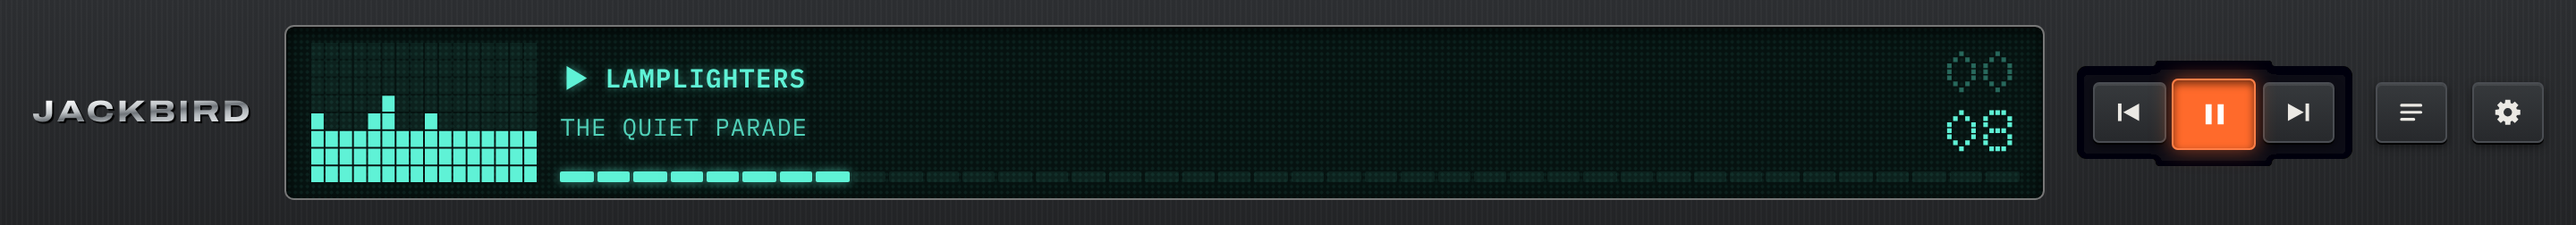
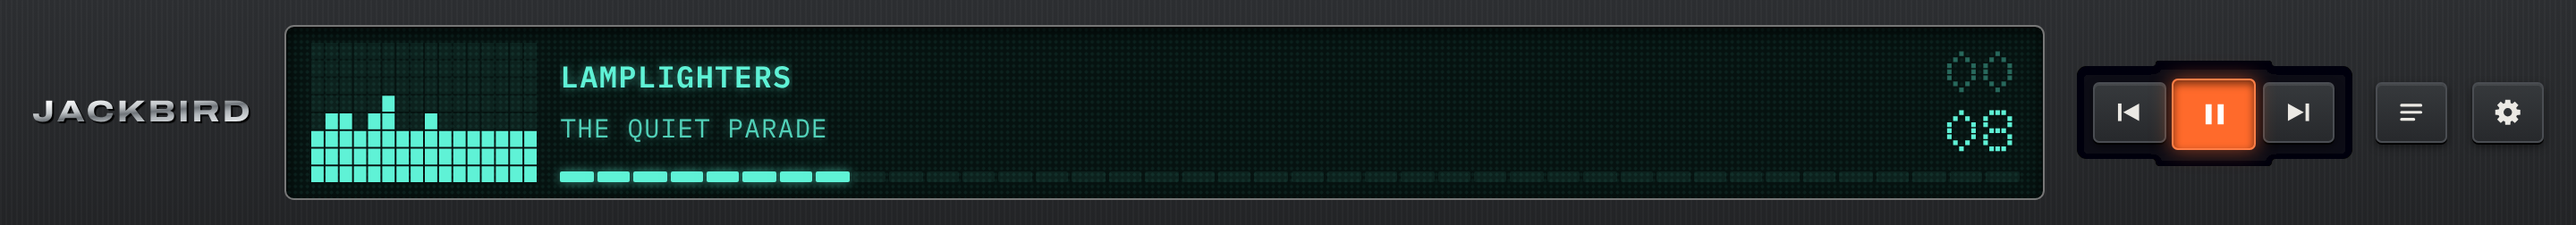
docs: the landing's captures again, and the desktop app's compact mode in the roadmap
Claude-Session: https://claude.ai/code/session_017Mbmirz9tF12XX3gg3EKbY

Changed region(s): [[0.2188, 0.5278, 0.3438, 0.6111], [0.2188, 0.2778, 0.3125, 0.3889], [0.0938, 0.5, 0.1562, 0.5833]]

diff --git a/ROADMAP/2026-11-13/desktop-compact-mode.md b/ROADMAP/2026-11-13/desktop-compact-mode.md
@@ -1,0 +1,32 @@
+# The desktop app's compact mode
+
+A small window for the desktop app (Tauri v2) that is only the deck: the display and the
+transport keys, like a hi-fi unit on the desk, while the music plays and the library is out of
+the way. Asked by the owner on 2026-11-12, after seeing the landing page's mock-up of a deck
+(later replaced by the real faceplate); planned on 2026-11-13. The reasoning goes into
+[RECORD/2026-11-03.deck-design-system.WIP.md](../../RECORD/2026-11-03.deck-design-system.WIP.md)
+when it is taken up.
+
+Desktop only: in the browser a page cannot size or keep its own window on top, and a phone's
+screen is already one deck. Dates are estimates; each step ends with its "done when" met and a
+walkthrough in the record.
+
+```mermaid
+gantt
+  title The desktop app's compact mode
+  dateFormat YYYY-MM-DD
+  axisFormat %d %b
+  section Compact mode
+    C1 The compact view                     :c1, 2026-11-16, 2d
+    C2 The window: size, on top, dragged    :c2, after c1, 2d
+    C3 Kept, and reached from the keyboard  :c3, after c2, 1d
+```
+
+| Step | Scope | Done when |
+| --- | --- | --- |
+| C1 The compact view | A view of the app that is the faceplate's deck alone: the display (its three views, the clock), the transport keys, a key back to the full window; the queue's next track on the display's second line when there is room. Drawn by the faceplate's own pieces, so it follows every change to them. In the web build too, for a narrow window, without the window's part. | at about 30rem by 7rem the deck shows the playing track, its format and its spectrum, and plays, pauses and skips |
+| C2 The window | From the desktop app: a key (and the menu) turns the window into the compact one: its size and least size, kept on top of others or not (a latching key with its LED), no title bar, dragged by the deck's chassis (`data-tauri-drag-region`); back to the full window at its earlier size and place. Tauri's window API (`setSize`, `setMinSize`, `setAlwaysOnTop`, `setDecorations`), allowed in the app's capabilities. | on macOS, Windows and Linux the window turns compact and back, stays on top when asked, and is moved by its chassis |
+| C3 Kept, and the keyboard | The mode, its place and "on top" kept across restarts (the app starts compact if it was closed so); a shortcut to turn it (Ctrl/Cmd+Shift+M); the media keys reach it as they do the full window. | closed compact, the app comes back compact where it was; the shortcut turns it both ways |
+
+Not in it: a menu-bar or tray player, and more than one window at once; they can follow on their
+own if wanted.

diff --git a/RECORD/2026-11-12.landing-page.WIP.md b/RECORD/2026-11-12.landing-page.WIP.md
@@ -65,3 +65,12 @@ The screenshots made again with `scripts/screenshots.cjs` over the interface as 
 18px root, the lit play key, the split's separator, the lists without dashes); the faceplate's
 capture is 252px tall at 2×, and the landing's `<img>` sizes follow. Checked at 1366 and 390px in
 both tones: no horizontal overflow.
+
+---
+
+## 2026-11-13 04:05 — The landing's captures again
+
+Made again with `scripts/screenshots.cjs` after the display's changes (no state glyph, the
+title a size up, the format's and the DAC's views); the faceplate's capture keeps its 252px, so the
+landing's markup is unchanged. The compact mode for the desktop app, asked on 2026-11-12, is in
+the roadmap: `ROADMAP/2026-11-13/desktop-compact-mode.md`.
